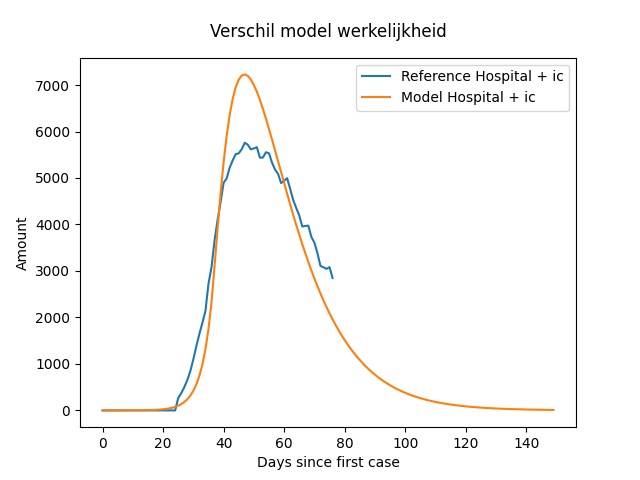
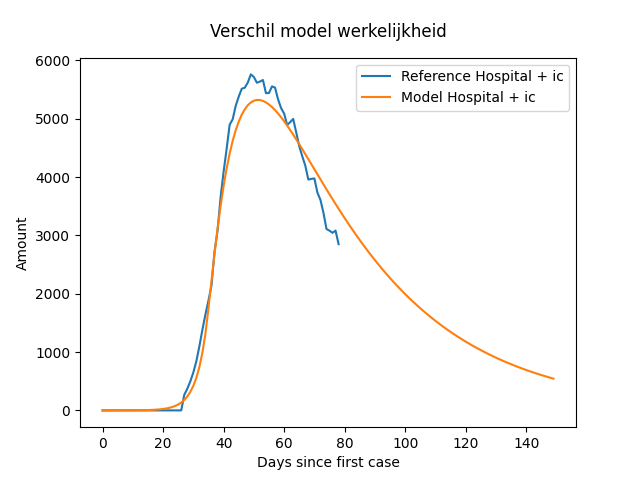
fixed some fitting errors

diff --git a/src/main.py b/src/main.py
@@ -127,9 +127,9 @@ def find_lockdown_factor(contact_matrix, susceptible, reference_hospital, infect
                                                           measure_day + counter * diff, offset, reference_hospital,
                                                           susceptible, first_patient_age)
         counter += 1
-    print("offset:", offset, factor, measure_day + (counter - 1) * diff, sum_of_squares)
+    print("offset:", offset, factor, measure_day + (counter - 1) * diff, prev)
 
-    return measure_day + (counter - 1) * diff, factor, sum_of_squares
+    return measure_day + (counter - 1) * diff, factor, prev
 
 
 def calculate_sum_of_squares(contact_matrix, days, infectious_rate, measure_day, offset, reference_hospital,
@@ -162,9 +162,11 @@ def calculate_sum_of_squares(contact_matrix, days, infectious_rate, measure_day,
             residual = np.absolute(temp[offset:] - reference_hospital)
             sum_of_squares = np.sum(residual ** 2)
             if sum_of_squares > prev_sum_of_squares or infectious_rate <= 0 or infectious_rate >= 1:
+                factor_diff += 0.001
                 break
             else:
                 prev_sum_of_squares = sum_of_squares
+
     else:
         factor_diff += 0.001
         prev_sum_of_squares = pos_sum_of_squares
@@ -177,9 +179,11 @@ def calculate_sum_of_squares(contact_matrix, days, infectious_rate, measure_day,
             residual = np.absolute(temp[offset:] - reference_hospital)
             sum_of_squares = np.sum(residual ** 2)
             if sum_of_squares > prev_sum_of_squares:
+                factor_diff -= 0.001
                 break
             else:
                 prev_sum_of_squares = sum_of_squares
+
     return factor + factor_diff, prev_sum_of_squares
 
 
@@ -228,29 +232,34 @@ def main():
     # model = plot_model(contact_matrix, cc.belgium_count, infectious_rate=infectious_rate, days=21,
     #                    reference_cases=reference_cases, first_patient_age=45, name='test')
 
-    # measure_day = 37
+    # measure_day = 35
     # offset, measure_day, factor = find_offset(contact_matrix, cc.belgium_count, cc.belgium_hospital, infectious_rate,
-    #                               len(cc.belgium_hospital), measure_day=measure_day, start_offset=20,
+    #                               len(cc.belgium_hospital), measure_day=measure_day, start_offset=25,
     #                                           first_patient_age=45)
-    #
+
     # print("uitkomst", offset, measure_day, factor)
-    offset = 25
-    measure_day = 38
-    factor = 0.1
+    offset = 27
+    measure_day = 36
+    factor = 0.178
 
     print('Best fit offset', offset, 'Day Measures Introduced', measure_day, 'Factor', factor)
     model = plot_model(contact_matrix, cc.belgium_count, infectious_rate=infectious_rate, days=days,
                        measure_factor=factor, measure_day=measure_day, reference_hospital=cc.belgium_hospital,
                        offset=offset, first_patient_age=45, title="Model België")
+    print("Model")
     print('Dead people:', model.dead_data[-1])
     print('Hospital people:', model.hospital_total_data[-1])
+    print('Hospital Max:', model.max_hospital)
+    print('IC Max:', model.max_ic)
     print('IC people:', model.ic_data[-1])
+    print()
 
     model_party = plot_model(contact_matrix, cc.belgium_count, infectious_rate=infectious_rate, days=days,
                              measure_factor=factor, measure_day=measure_day, reference_hospital=cc.belgium_hospital,
                              offset=offset, scenario='party', first_patient_age=45, name='model_party', title='Model België met lockdown parties')
     print('Dead people:', model_party.dead_data[-1])
     print('Hospital people:', model_party.hospital_total_data[-1])
+    print('Hospital Max:', model_party.max_hospital)
     print('IC people:', model_party.ic_data[-1])
 
     plot([model.hospital_data, model_party.hospital_data], ['Normal', 'Lockdown Parties'], 'hospital_diff',
@@ -283,9 +292,13 @@ def main():
     plot([model_no_lockdown.ic_data, model.ic_data], ["No lockdown", "Lockdown"],
          name='IC_lockdown_diff', y_label='Intensive Care', title="Verschil in intensieve zorg")
 
+    print("Model no lockdown")
     print('Dead people:', model_no_lockdown.dead_data[-1])
     print('Hospital people:', model_no_lockdown.hospital_total_data[-1])
+    print('Hospital Max:', model_no_lockdown.max_hospital)
+    print('IC Max:', model_no_lockdown.max_ic)
     print('IC people:', model_no_lockdown.ic_data[-1])
+    print()
 
     # Uncomment for plots (icu cap)
     model_no_lockdown_cap_ic = plot_model(contact_matrix, cc.belgium_count, infectious_rate=infectious_rate, days=days,
@@ -307,31 +320,31 @@ def main():
     print('IC people:', model_no_lockdown_cap_ic.ic_data[-1])
 
     # gifs
-    # animate([model.infected_data, model.hospital_data, model.ic_data, model.dead_data],
-    #         ["Infected", "Hospital", "IC", "Dead"], display=False, save=True, name='model', y_label='Amount', title='Model België in de tijd')
-    #
-    # animate([model_no_lockdown.infected_data, model_no_lockdown.hospital_data, model_no_lockdown.ic_data,
-    #          model_no_lockdown.dead_data], ["Infected", "Hospital", "IC", "Dead"], display=False, save=True,
-    #         name='model_no_lockdown', y_label='Amount', title='Model België geen lockdown, in de tijd')
-    #
-    # animate([model_no_lockdown.infected_data, model.infected_data], ["No lockdown", "Lockdown"],
-    #         display=False, save=True, name='Infected_lockdown_diff', y_label='Infections', title='Verschil aantal geïnfecteerden in de tijd')
-    #
-    # animate([model_no_lockdown.hospital_data, model.hospital_data], ["No lockdown", "Lockdown"],
-    #         display=False, save=True, name='Hospital_lockdown_diff', y_label='Hospitalizations',
-    #         title='Verschil aantal gehospitalizeerden in de tijd')
-    #
-    # animate([model_no_lockdown.dead_data, model.dead_data], ["No lockdown", "Lockdown"],
-    #         display=False, save=True, name='Dead_lockdown_diff', y_label='Dead',
-    #         title='Verschil aantal doden in de tijd')
-    #
-    # animate([model_no_lockdown.ic_data, model.ic_data], ["No lockdown", "Lockdown"],
-    #         display=False, save=True, name='IC_lockdown_diff', y_label='Intensive Care',
-    #         title='Verschil intensieve zorg in de tijd')
+    animate([model.infected_data, model.hospital_data, model.ic_data, model.dead_data],
+            ["Infected", "Hospital", "IC", "Dead"], display=False, save=True, name='model', y_label='Amount', title='Model België in de tijd')
 
-    # animate([model_no_lockdown_cap_ic.dead_data, model_no_lockdown.dead_data, model.dead_data],
-    #      ["No lockdown (IC overflow)", "No lockdown", "Lockdown"],
-    #      name='Dead_lockdown_diff-cap-ic', y_label='Dead', title="Verschil in aantal doden", save=True)
+    animate([model_no_lockdown.infected_data, model_no_lockdown.hospital_data, model_no_lockdown.ic_data,
+             model_no_lockdown.dead_data], ["Infected", "Hospital", "IC", "Dead"], display=False, save=True,
+            name='model_no_lockdown', y_label='Amount', title='Model België geen lockdown, in de tijd')
+
+    animate([model_no_lockdown.infected_data, model.infected_data], ["No lockdown", "Lockdown"],
+            display=False, save=True, name='Infected_lockdown_diff', y_label='Infections', title='Verschil aantal geïnfecteerden in de tijd')
+
+    animate([model_no_lockdown.hospital_data, model.hospital_data], ["No lockdown", "Lockdown"],
+            display=False, save=True, name='Hospital_lockdown_diff', y_label='Hospitalizations',
+            title='Verschil aantal gehospitalizeerden in de tijd')
+
+    animate([model_no_lockdown.dead_data, model.dead_data], ["No lockdown", "Lockdown"],
+            display=False, save=True, name='Dead_lockdown_diff', y_label='Dead',
+            title='Verschil aantal doden in de tijd')
+
+    animate([model_no_lockdown.ic_data, model.ic_data], ["No lockdown", "Lockdown"],
+            display=False, save=True, name='IC_lockdown_diff', y_label='Intensive Care',
+            title='Verschil intensieve zorg in de tijd')
+
+    animate([model_no_lockdown_cap_ic.dead_data, model_no_lockdown.dead_data, model.dead_data],
+         ["No lockdown (IC overflow)", "No lockdown", "Lockdown"],
+         name='Dead_lockdown_diff-cap-ic', y_label='Dead', title="Verschil in aantal doden", save=True)
 
 
 if __name__ == "__main__":

diff --git a/src/Model.py b/src/Model.py
@@ -64,6 +64,10 @@ class Model:
         self.ic_overflow_data = np.empty(0)
         self.dead_data = np.empty(0)
         self.case_data = np.empty(0)
+        self.max_hospital = 0
+        self.max_ic = 0
+
+        # scenario
         self.scenario = scenario
 
     def infect(self, susceptible, infected, factor):
@@ -237,6 +241,8 @@ class Model:
             self.case_data = np.append(self.case_data, self.infected.sum() + self.recovered.sum() + self.hospital.sum()
                                        + self.hospital_ic.sum() + self.dead.sum())
             self.hospital_total_data = np.append(self.hospital_total_data, self.hospital_total.sum())
+            self.max_hospital = max(self.max_hospital, self.hospital.sum() + self.hospital_ic.sum())
+            self.max_ic = max(self.max_ic, self.hospital_ic.sum())
 
             # print(self.susceptible.sum() + infected.sum() + self.recovered.sum())
             # print(i)
